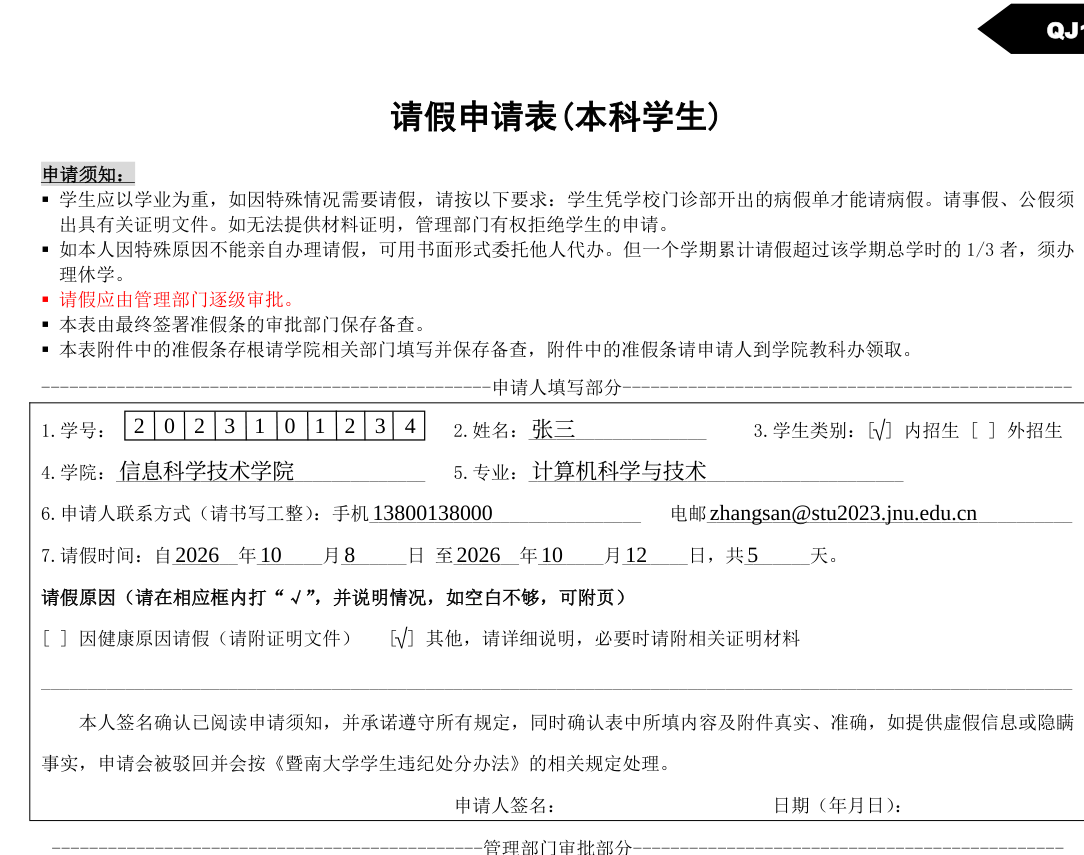
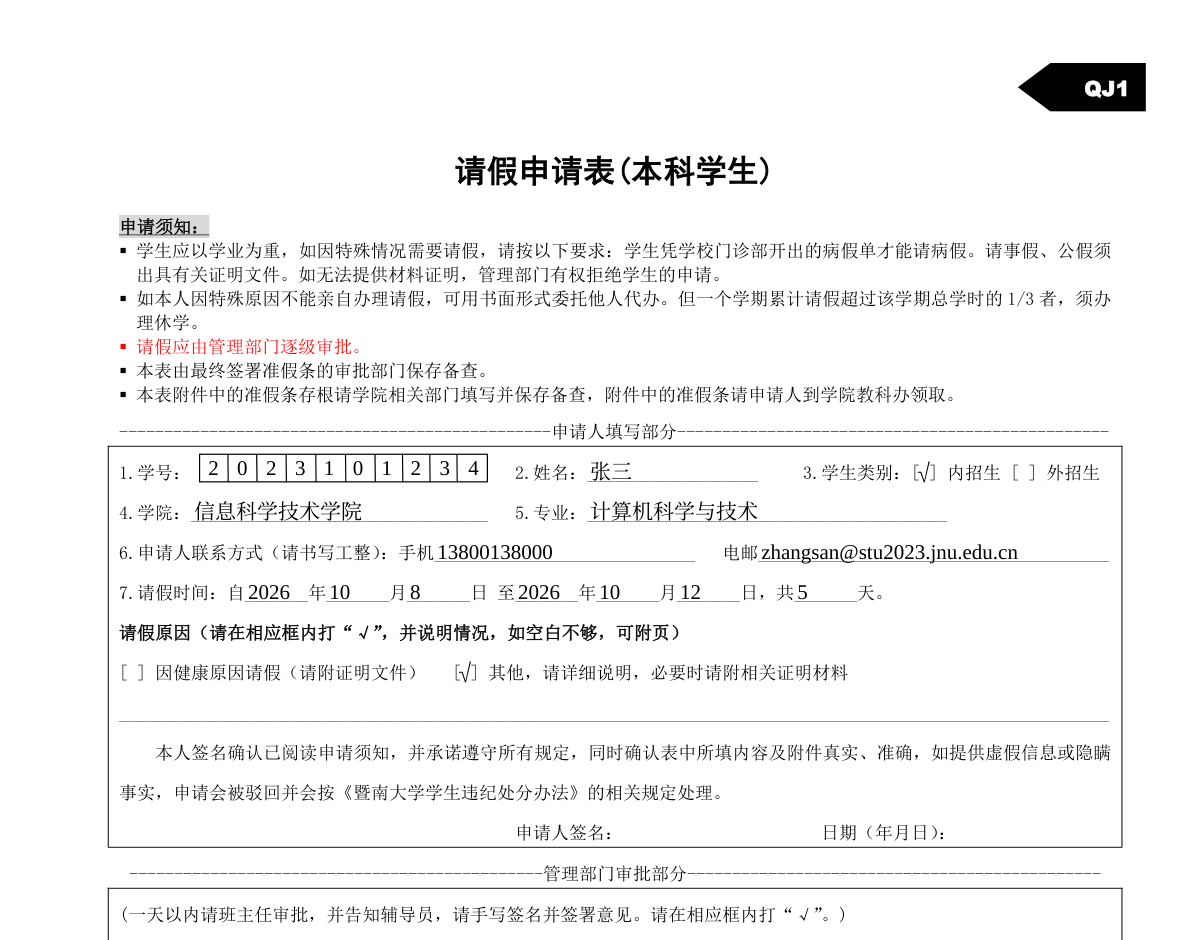
README 精简为面向开发者的版本，预览图重新生成
218 行压到 115 行：功能清单收成 5 行要点，去掉使用说明、隐私、免责声明等
面向使用者的大段文字，留下外部开发者真正要的 —— 运行方式、目录职责、重新生成
派生物的脚本、发布前递增版本号的连带关系，以及几条「不知道就会踩坑」的实现说明。

两张预览图用同一套示例数据重做（跟 tools/verify.mjs 的 sample 对齐）：
表单图改成新配色与新字体，PDF 图改成整页宽度、裁到申请人填写部分。

diff --git a/README.md b/README.md
@@ -1,13 +1,9 @@
 # 暨南大学本科学生请假申请表 · 一键生成
 
-给暨南大学本科学生用的网页小工具：填好信息，一键下载填写完毕的《暨南大学学生请假申请表》PDF，
-打印后手写签名即可提交。纯前端实现，全部在你自己的浏览器里完成，不联网上传任何数据。
+给暨南大学本科学生用的网页小工具：填好信息，一键下载填好的《暨南大学学生请假申请表》PDF，
+打印后手写签名即可提交。**纯前端**，没有后端，生成过程全在浏览器内存里完成，不上传任何数据。
 
-> 在线版：<https://pages.wtp016.eu.org/>
-
-## 预览
-
-填写界面：
+在线版：<https://pages.wtp016.eu.org/>
 
 ![填写界面](docs/preview-form.png)
 
@@ -15,203 +11,105 @@
 
 ![生成结果](docs/preview-pdf.png)
 
-## 功能
+## 功能要点
 
-- 打开时先露出校园牌坊的背景与校徽、标题（收起状态下只显示这些，表单不会露出），
-  点“点击展开填写”按钮后，填写面板升到顶部铺满屏幕，之后滚动都发生在面板内部，页面本身不再滚动。
-  展开是单向的：这一步之后“点击展开填写”按钮就不再出现，顶部从校徽开始，
-  滑动、方向上键都不会把面板收回初始状态
-- 白色卡片本身就是滚动容器：上下边缘在滚动过程中固定不动，四角始终是圆角，
-  并与网页上下边缘保持 14px 间距（内容在卡片内部滚动、被卡片边缘裁切）
-- 填写学号、姓名、学生类别、学院、专业、手机、电邮、请假时间、请假原因类型
-- 学院点击后弹出选择面板，面板里可按关键词搜索（如输入“法学”“临床”）；名单共 43 个，
-  以暨南大学官网“院系设置”为基础并含医学部其他临床医学院，两个名称合办的院系
-  （如法学院/知识产权学院）拆成两条分别列出，只列学院、不列研究机构；
-  名单里没有的学院可选面板最后的“其他（手动填写）”
-- **请假时间与请假原因可以先空着**，其余各项填好就能生成，PDF 里那两行留白（纸质表格上
-  这两处本来也可以由学院或学生手写）。请假时间是「要么整项留空、要么填对」：
-  只填一半、或开始晚于结束，都会拦住生成 —— 免得你填了却没写进 PDF
-- 请假原因点选之后**再点一下可以取消选择**，退回留空
-- 右侧常驻一条填写状态提示，三种状态：✓ 填写完整 / ! 只差可留空的那两项 / ✕ 还有必填项没填。
-  符号用浅底同色字，不刺眼；下面带一条填写进度条和 `已填 / 共 9 项` 的计数
-- 有格式错误或没填的必填字段会红框高亮；学号要求 10 位数字，手机号、电邮、起止日期都会即时校验
-- 点“生成并下载 PDF”后先弹一个全局窗口显示进度（首次要下字体，会稍等一两秒），
-  生成完**进入预览**：在弹窗里翻看真实的 PDF，确认无误再点“确认无误，下载 PDF”，
-  要改内容就点“返回修改”。这期间右侧那条填写提示保持不动，不会被生成状态覆盖
-- 电邮可选**学校学子邮**或**自备邮箱**：选学子邮时只需填用户名，域名按学号前 4 位
-  （入学年份）自动生成，如学号 `2025103491` + 用户名 `zhangsan` → `zhangsan@stu2025.jnu.edu.cn`
-- 学号逐格填入申请表上的 10 个方格
-- 学生类别、请假原因自动在对应方框内打“√”
-- 请假天数按起止日期自动计算（起止当天都算）
-- 可选择同时填写第 2 页附件的准假条（学院、专业、姓名、学号、天数、起止日期）
-- 学院、专业等文字写不下时自动缩小字号，最小 7pt
-- 填错会即时提示：学号位数、手机/电邮格式、日期先后、生僻字是否在字体范围内
+- 学院选择面板可按关键词搜索（43 个学院，含医学部其他临床医学院）
+- 学子邮只需填用户名，域名按学号前 4 位自动拼：`zhangsan` + `2025103491` → `zhangsan@stu2025.jnu.edu.cn`
+- 学号逐格填入申请表的 10 个方格，类别与原因自动打勾，天数按起止日期算
+- **请假时间与请假原因可以留空**，PDF 里那两行留白（纸质表格上也能手写）；
+  请假时间「要么整项留空、要么填对」，只填一半或填反都会拦住生成
+- 生成前有预览，确认无误才下载
 
-## 字体
+## 运行
 
-网页显示和生成的 PDF 用的是不同的字体，各司其职：
-
-| 用途 | 汉字 | 数字与字母 |
-| --- | --- | --- |
-| 网页界面 | Noto Sans CJK SC（思源黑体） | 系统西文字体 |
-| 生成的 PDF | Noto Serif SC（思源宋体） | Tinos（与 Times New Roman 度量兼容） |
-
-页面用思源黑体，裁到 GB2312 全集、带 Regular 与 Bold 两个真实字重，
-所以在 Windows 和 macOS 上看到的完全一致，不再取决于各自装了哪些系统字体。
-
-PDF 字号统一 **10.5pt**。同一行里的中英文会分别用对应字体排版，因此
-“自 2026 年 11 月 2 日”这样的混排也是对的。
-
-学校模板原用的是宋体与 Times New Roman，两者都是随 Windows 分发的商业字体，
-不适合放进公开仓库再分发，因此换成了观感与排版度量一致的思源宋体与 Tinos。
-四份字体都是 SIL OFL 1.1 开源字体，见 [assets/fonts/LICENSE.md](assets/fonts/LICENSE.md)。
-
-## 使用
-
-### 直接使用
-
-打开在线版网址，填好信息，点“生成并下载 PDF”，在弹出的预览里核对一遍内容，
-确认无误后下载。个别浏览器看不了预览，可以用预览里的“直接下载”链接。
-
-生成的结果：
-
-- 申请表的“申请人签名”“日期”以及审批、盖章部分**保持空白**，需要手写或由学院填写
-- 请假原因只勾选类型，下面的具体情况说明横线留空，由学生手写
-- 界面上没填请假时间或请假原因的，申请表上对应的行也整行留空
-- 请用 A4 纸单面打印
-
-### 自己部署
-
-整个仓库就是静态站点，把文件放到任意静态托管即可，推荐 GitHub Pages：
-仓库 Settings → Pages → Source 选 `main` 分支根目录 → 保存。
-
-首次打开需加载约 4.6 MB，其中中文思源黑体 3.1 MB（gzip 后，Regular 1.5 + Bold 1.6）、
-背景图 `assets/background.jpg` 0.8 MB（4000×2219，JPEG q85；源照片是 5.1 MB 的 PNG，
-同样像素尺寸下压缩到 1/6，PSNR 45.5 dB，肉眼无差别）。
-
-PDF 用的思源宋体与 Tinos（合计约 1.8 MB）不在首次加载里：只有生成 PDF 时才需要，
-所以等点了“生成并下载 PDF”再下载，第一次会多等一两秒，之后走浏览器缓存。
-
-注意：页面用 `fetch` 读取字体，**不能直接双击 `index.html`**（`file://` 下浏览器会拦截）。
-
-### 本地运行
+整个仓库就是静态站点，没有构建步骤、不用装依赖。**必须走 http(s)** —— 页面用 `fetch`
+读字体，`file://` 下会被浏览器拦掉：
 
 ```bash
-cd jnu-student-afl-pdf-generator
 python -m http.server 8080     # 或 npm run serve
-# 然后打开 http://localhost:8080/
+# 打开 http://localhost:8080/
 ```
+
+部署：GitHub Pages → Settings → Pages → Source 选 `main` 分支根目录。
+
+首次加载约 4.6 MB（思源黑体 3.1 MB + 背景图 0.8 MB）。生成 PDF 用的宋体与 Tinos 另约 1.8 MB，
+点「生成」时才下载，不在首屏里。
 
 ## 项目结构
 
 ```
 index.html              页面
 style.css               样式
-js/app.js               表单交互、校验、下载
+js/app.js               表单交互、校验、预览与下载
 js/fill-pdf.js          把数据画到模板上（浏览器和 Node 共用）
-js/pdf-slots.js         模板中各填写位置的坐标（由 PDF 实测得到）
-js/template-data.js     模板 PDF 的 base64（由脚本生成）
-js/font-coverage.js     字体覆盖的码位表（由脚本生成，用于生僻字提示）
-assets/template.pdf     请假申请表模板
+js/pdf-slots.js         模板中各填写位置的坐标（实测得到）
+js/template-data.js     模板 PDF 的 base64            ← 由脚本生成
+js/font-coverage.js     字体覆盖的码位表              ← 由脚本生成
+assets/template.pdf     请假申请表模板（学校原件）
 assets/background.jpg   页面背景图（校园牌坊，4000×2219 JPEG）
-assets/jnu-emblem.svg   页面顶部校徽（卡片内）
-assets/fonts/           裁剪后的开源字体及许可（黑体用于网页，宋体与 Tinos 用于 PDF）
+assets/fonts/           裁剪后的开源字体（黑体供网页，宋体与 Tinos 供 PDF）
 vendor/                 第三方库，见 vendor/PATCHES.md
 tools/                  开发脚本，不参与页面运行
-docs/                   README 用的预览图
 ```
-
-## 实现说明
-
-**填写位置是实测的，不是目测的。** `js/pdf-slots.js` 里的每条横线起止 x、基线 y 都取自
-模板 PDF 内容流中字符的精确坐标，因此在不同阅读器、不同尺寸打印下都对得齐。
-
-**模板以 base64 内嵌在 `js/template-data.js` 里**，而不是直接 `fetch` 那个 PDF。
-原因是部分浏览器的安全软件或扩展会按文件内容识别 PDF 并掐断响应，导致 `fetch` 报
-NetworkError（换文件名、换后缀都无效，因为内容没变）。放进 JS 模块传输就绕开了这个问题。
-
-**修了 pdf-lib 依赖的 fontkit 的一个 bug。** fontkit 生成字体子集时会把字形偏移右移一位
-写进短格式 loca 表，奇数偏移会被截断，导致后续字形数据整体错位、生成的 PDF 随机缺字。
-已改为始终使用长格式 loca，说明见 [vendor/PATCHES.md](vendor/PATCHES.md)，回归检查见
-`tools/check-output.py`。
 
 ## 开发
 
-需要 Python 3 与 Node.js。字体相关脚本依赖 `fontTools`：
+需要 Python 3 与 Node.js。
 
 ```bash
-pip install fonttools brotli
+pip install fonttools brotli pypdf
 
-python tools/prepare-fonts.py     # 下载开源字体、裁剪成 assets/fonts/，并生成 js/font-coverage.js
-node tools/embed-template.mjs     # 把 assets/template.pdf 转成 js/template-data.js
-node tools/verify.mjs             # 生成 build/*.pdf 样例
-python tools/check-output.py build/*.pdf   # 检查内嵌字体有没有缺字（需 pypdf）
+node tools/verify.mjs                      # 生成 build/*.pdf 样例
+python tools/check-output.py build/*.pdf   # 检查内嵌字体有没有缺字（字体损坏的回归）
+
+python tools/prepare-fonts.py              # 重新裁剪字体（黑体从 CERNET 镜像取，比 GitHub 快两个数量级）
+node tools/embed-template.mjs              # 换了 assets/template.pdf 之后重新内嵌
 ```
 
-换了模板 PDF 之后要重新执行 `embed-template.mjs`。
+仓库没有单元测试，回归就靠上面两条命令。`verify.mjs` 的四个用例各有分工，改了生成逻辑都要看：
+`sample` 普通情况、`stress` 大量不同汉字、`long` 超长文本、`blank` 请假时间与原因全空。
 
-## 缓存与版本号
+## 发布前必做：递增版本号
 
-GitHub Pages 对 `css` / `js` / 图片一律缓存 **4 小时**（`Cache-Control: max-age=14400`），
-而 HTML 只缓存 10 分钟。这会导致发布后出现「新版 HTML + 旧版资源」的错位，页面样式错乱。
-
-因此所有资源的 URL 都带了一个版本号，写在两个文件里：
-
-- `index.html`：`<link rel="stylesheet">`、`<script type="module" src="js/app.js?v=…">`、
-  `<script type="importmap">` 里的各个 JS 模块、校徽 `<img class="emblem">`
-- `style.css`：`background` 里的 `assets/background.jpg`
-
-字体路径由 `app.js` 从自身 URL 取版本号自动拼接（`new URL(import.meta.url).search`），
-跟着 `js/app.js` 的版本号走，不用单独维护。
-
-**改了哪个资源，就递增引用它的那一处版本号**（例如 `v=20261003a` → `v=20261003b`），
-访客就会立刻拿到新资源，不用等 4 小时缓存过期。注意连带关系：`style.css` 的内容改了，
-`index.html` 里的 `style.css?v=…` 也要一起递增，否则访客拿到的是缓存里的整份旧样式；
-换背景图同理。改完确认没有遗漏：
+GitHub Pages 对 css / js / 图片缓存 **4 小时**，HTML 只缓存 10 分钟。不加版本号会出现
+「新 HTML + 旧资源」的错位。**改了哪个资源，就递增引用它的那一处**：
 
 ```bash
-grep -rn "v=[0-9]\{8\}" index.html style.css
+grep -rn "v=[0-9]\{8\}" index.html style.css     # 看现在有哪些字面量
 ```
+
+容易漏的是连带关系：`style.css` 的内容改了，`index.html` 里的 `style.css?v=` 必须一起递增，
+否则访客拿到的是缓存里的整份旧样式；换背景图同理。字体路径由 `app.js` 从自身 URL
+取版本号自动拼接，跟着 `js/app.js` 的版本号走，不用单独维护。
+
+## 几处「为什么这么写」
+
+- **填写坐标是实测的。** `js/pdf-slots.js` 里每条横线的起止 x、基线 y 取自模板 PDF 内容流中
+  字符的精确坐标，不是照截图量的像素 —— 换模板要重新测，别用估算值。
+- **模板以 base64 内嵌**（`js/template-data.js`），而不是去 `fetch` 那个 PDF：部分浏览器的
+  安全软件会按文件内容识别 PDF 并掐断响应，`fetch` 报 NetworkError，改文件名换后缀都没用。
+- **`vendor/fontkit.es.min.js` 带着两处补丁**，其中「loca 始终写长格式」不能丢，否则生成的
+  PDF 会随机缺字。见 [vendor/PATCHES.md](vendor/PATCHES.md)。
+- **只用开源字体。** 学校模板原本的宋体与 Times New Roman 随 Windows 分发，不能进公开仓库；
+  现用思源黑体（网页）、思源宋体 + Tinos（PDF），四份都是 SIL OFL 1.1，
+  许可见 [assets/fonts/LICENSE.md](assets/fonts/LICENSE.md)。
 
 ## 已知限制
 
-- 字体覆盖 GB2312 全部汉字（7547 个）。生僻字（如“燚”“㸚”）不在范围内，
-  页面会提示替换，不会生成缺字的 PDF。
-- 不校验学号、手机号是否真实，请自行核对。
-- 学校模板如有更新，工具需要同步调整填写坐标。
-
-## 隐私
-
-页面没有任何后端，也不发任何网络请求上传数据：模板内嵌在页面里，字体是静态文件，
-生成过程全部在浏览器内存中完成，生成后直接由浏览器下载。
-
-## 免责声明
-
-本项目为非官方工具，与暨南大学及其任何部门无关，仅供参考使用。
-请假是否批准、表格格式是否符合要求，以学院和教务处的规定为准。
-
-上面这段声明印在卡片内容的最后一块（“提示”面板下面，一条细线之后），
-随内容一起滚出来：滚到最底时它本来就在视野里，页面里没有浮动的底栏，也没有出现/收起的动画。
-底栏预留了中国大陆备案号的位置（`index.html` 中 `.icp` 那一行，默认带 `hidden`），
-将来备案通过后去掉 `hidden` 并替换成真实备案号即可。
-
-注意：备案要求站点托管在境内服务器上，GitHub Pages 属于境外托管，无法直接备案；
-将来若要备案，需要先把站点迁到境内主机，再以对应主体申请。
+- 字体覆盖 GB2312 全部汉字（7547 个）。生僻字（如「燚」「㸚」）会被拦下并提示替换，
+  不会生成缺字的 PDF。
+- 学号、手机号只校验格式，不校验真实性。
+- 页面底部预留了大陆备案号的位置（`index.html` 的 `.icp`，默认 `hidden`）。GitHub Pages
+  属境外托管无法备案，真要备案得先把站点迁到境内主机。
 
 ## 许可证
 
-代码以 [GNU General Public License v3.0](LICENSE) 发布，可自由使用、修改、再分发，
-衍生作品需同样以 GPL-3.0 开放源代码。
+代码以 [GPL-3.0](LICENSE) 发布，衍生作品需同样开源。
 
-第三方组件：
+第三方组件：[pdf-lib](https://github.com/Hopding/pdf-lib) 1.17.1、
+[@pdf-lib/fontkit](https://github.com/Hopding/fontkit) 1.1.1、
+[pako](https://github.com/nodeca/pako) 2.1.0（均 MIT）；思源黑体 / 思源宋体 / Tinos
+（均 SIL OFL 1.1）。`assets/template.pdf` 是学校发布的表格原件，其中的文字与字体属于原文档。
 
-| 组件 | 许可证 |
-| --- | --- |
-| [pdf-lib](https://github.com/Hopding/pdf-lib) 1.17.1 | MIT |
-| [@pdf-lib/fontkit](https://github.com/Hopding/fontkit) 1.1.1 | MIT |
-| [pako](https://github.com/nodeca/pako) 2.1.0 | MIT |
-| Noto Serif SC（思源宋体） | SIL OFL 1.1 |
-| Tinos | SIL OFL 1.1 |
-
-字体许可见 [assets/fonts/LICENSE.md](assets/fonts/LICENSE.md)。
-`assets/template.pdf` 是学校发布的学生请假申请表原件，其中的文字与字体属于原文档。
+本项目为非官方工具，与暨南大学及其任何部门无关；请假是否批准、表格格式是否符合要求，
+以学院和教务处的规定为准。
